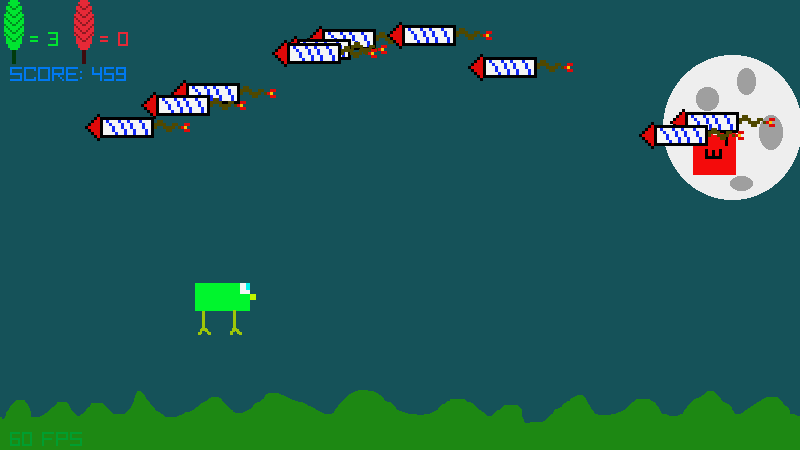
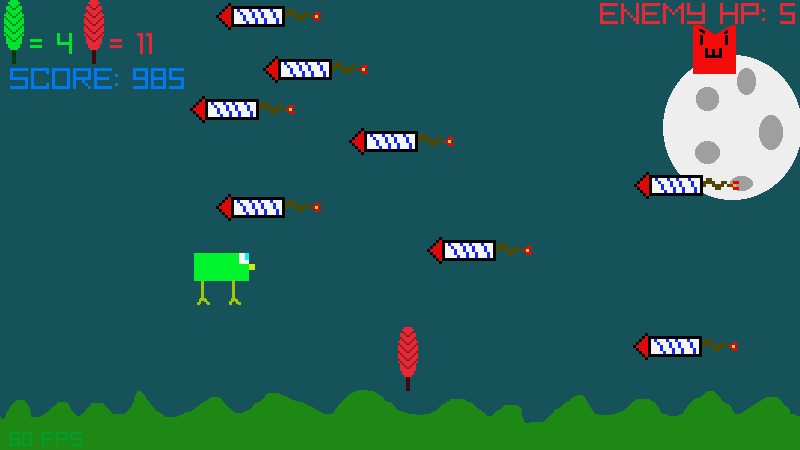
fixed text bugs

diff --git a/src/Gameplay.c b/src/Gameplay.c
@@ -68,7 +68,6 @@ void InitGameplayScreen(void)
 
   enemy.currentframe = 0;
   enemy.hp = 5;
-  //enemy.speed = 2.0f;
   enemy.speed = 200.0f;
   if (GI_callcount < 1) {
     enemy.frameRec = (Rectangle) {
@@ -127,18 +126,8 @@ void InitGameplayScreen(void)
   pauseTimer = 0;
   score = 0;
   scoreTimer = 0;
-  ewc = 0;
 
   GI_callcount++;
-}
-
-void SetEnemyLevel(void)
-{
-  switch (level) {
-    case LEVEL1: enemy.speed = 200.0f; break;
-    case LEVEL2: enemy.speed = 400.0f; break;
-    case LEVEL3: enemy.speed = 600.0f; break;
-  }
 }
 
 void DamageActor(struct Actor *actor)
@@ -248,11 +237,12 @@ void UpdateGameplayScreen(void)
          if (IsKeyPressed(KEY_D)) DebugMode = !DebugMode;
          if (IsKeyPressed(KEY_NINE)) ammo = 99;
          if (IsKeyPressed(KEY_ZERO)) ammo = 0;
+         if (IsKeyPressed(KEY_G)) finishfromGameplayScreen = 1;
          if (IsKeyPressed(KEY_R)) finishfromGameplayScreen = 2;
          if (IsKeyPressed(KEY_W)) finishfromGameplayScreen = 3;
 
          // call gameover when killed
-         if (player.hp <= 0) { StopMusicStream(Gameplaysong); finishfromGameplayScreen = 1; }
+         if (player.hp < 1) { StopMusicStream(Gameplaysong); finishfromGameplayScreen = 1; }
 
          // Red feather logic
          for (int i = 0; i < MAX_SHOOTS; i++) {
@@ -285,7 +275,7 @@ void UpdateGameplayScreen(void)
                    case 0: player.hp++;  break;
                    case 1: ammo++; break;
                  }
-                 PlaySoundMulti(fxfeather);
+                 if (!mute) PlaySoundMulti(fxfeather);
                  ResetFeather();
              }
              feather.hitbox.x -= 300.0f * GetFrameTime();
@@ -293,16 +283,11 @@ void UpdateGameplayScreen(void)
 
          // Enemy logic
          if (level < 3) {
-        /*   if (((enemy.hitbox.y + enemy.hitbox.height) >= (float)GetScreenHeight()
-           || (enemy.hitbox.y <= 0))) enemy.speed *= -1.0f; */
-
-        //   if ((int) globalTimer % 50 == 0)
-            enemy.hitbox.y = GetRandomValue(0, GetScreenHeight() - enemy_sprite.height);
-        //   enemy.hitbox.y += enemy.speed * GetFrameTime();
+           if ((int)globalTimer % 40 == 0) enemy.hitbox.y = GetRandomValue(0, GetScreenHeight() - enemy_sprite.height);
 
            if (CheckCollisionRecs(player.hitbox, enemy.hitbox)) DamageActor(&player);
 
-           if (enemy.hp < 1) { level++; enemy.hp = 5; SetEnemyLevel(); }
+           if (enemy.hp < 1) { level++; enemy.hp = 5; }
          }
 
          // Firework logic
@@ -352,9 +337,6 @@ void DrawGameplayScreen(void)
     for (int i = 0; i < MAX_SHOOTS; i++) {
       DrawRectangleLines(shoot[i].hitbox.x, shoot[i].hitbox.y, shoot[i].hitbox.width, shoot[i].hitbox.height, GREEN);
     }
-    /*for (int i = 0; i < 2; i++) {
-      DrawRectangleLines(EnemyBounds[i].x, EnemyBounds[i].y, EnemyBounds[i].width, EnemyBounds[i].height, WHITE);
-    }*/
     DrawText(TextFormat("enemy.hitbox.y: %f", enemy.hitbox.y), 10, 200, 20, GREEN);
     DrawText(TextFormat("enemy.speed: %f", enemy.speed), 10, 220, 20, GREEN);
     DrawText(TextFormat("globalTimer: %f", globalTimer), 10, 240, 20, GREEN);
@@ -362,7 +344,7 @@ void DrawGameplayScreen(void)
     DrawText(TextFormat("player.iframetimer: %f", player.iframetimer), 10, 280, 20, GREEN);
     DrawText(TextFormat("player.in: %d", player.in), 10, 300, 20, GREEN);
     DrawText(TextFormat("feather.active: %d", feather.active), 10, 320, 20, GREEN);
-    //DrawText(TextFormat("GetTime(): %f", GetTime()), 10, 320, 20, GREEN);
+    DrawText(TextFormat("GetTime(): %f", GetTime()), 10, 340, 20, GREEN);
   }
   if (feather.active) DrawTexture(feather_sprite, feather.sprite_pos.x, feather.sprite_pos.y, feather.color);
   DrawTextureRec(enemy_sprite, enemy.frameRec, enemy.sprite_pos, enemy.color);

diff --git a/src/Title.c b/src/Title.c
@@ -18,13 +18,13 @@ int titleSelected = 0, finishfromTitleScreen = 0;
 void DrawScore(void)
 {
   if (bestscore >= 10000)
-     DrawTextEx(ZadoBold, TextFormat("BEST: %i", bestscore), (Vector2){ 580, 0 }, 30, 2, (Color){ 222, 181, 0, 255 });
+     DrawText(TextFormat("BEST: %i", bestscore),  580, 0, 30, (Color){ 222, 181, 0, 255 });
   else if (bestscore >= 5000)
-     DrawTextEx(ZadoBold, TextFormat("BEST: %i", bestscore), (Vector2){ 580, 0 }, 30, 2, (Color){ 149, 148, 147, 255 });
+     DrawText(TextFormat("BEST: %i", bestscore),  580, 0, 30, (Color){ 149, 148, 147, 255 });
   else if (bestscore >= 1000)
-     DrawTextEx(ZadoBold, TextFormat("BEST: %i", bestscore), (Vector2){ 580, 0 }, 30, 2, (Color){ 138, 72, 4, 255 });
+     DrawText(TextFormat("BEST: %i", bestscore), 580, 0, 30,(Color){ 138, 72, 4, 255 });
   else
-     DrawTextEx(ZadoBold, TextFormat("BEST: %i", bestscore), (Vector2){ 580, 0 }, 30, 2, BLUE);
+     DrawText(TextFormat("BEST: %i", bestscore), 580, 0, 30, BLUE);
 }
 
 
@@ -49,15 +49,15 @@ void DrawTitleScreen(void)
 {
   DrawTexture(background, 0, 0, GRAY);
   DrawTextEx(ZadoBold, "Avoid", (Vector2){ 300, 0 }, 80, 5, BLUE);
-  //  DrawText("Controls", 10, 10, 30, BLUE);
+    DrawText("Controls", 5, 10, 30, BLUE);
     DrawScore();
-  /*  DrawText("Press the arrow keys or 'DPAD' to move and 'X' to dash", 10, 40, 10, WHITE);
-    DrawText("Press 'ENTER' or 'START' to pause", 10, 60, 10, WHITE);
-    DrawText("Press 'M' to mute", 10, 80, 10, WHITE);
-    DrawText("Press 'Left-ALT' + 'F' for full screen", 10, 100, 10, WHITE);
-    DrawText("Press 'R' to restart", 10, 120, 10, WHITE);
-    DrawText("Press 'ENTER' or 'START' to select an option", 10, 140, 10, WHITE);
-    DrawText("Press 'X' or 'A' on a gamepad to shoot", 10, 160, 10, WHITE); */
+    DrawText("Press the arrow keys or 'DPAD' to move and 'X' to dash", 5, 40, 10, WHITE);
+    DrawText("Press 'ENTER' or 'START' to pause", 5, 60, 10, WHITE);
+    DrawText("Press 'M' to mute", 5, 80, 10, WHITE);
+    DrawText("Press 'Left-ALT' + 'F' for full screen", 5, 100, 10, WHITE);
+    DrawText("Press 'R' to restart", 5, 120, 10, WHITE);
+    DrawText("Press 'ENTER' or 'START' to select an option", 5, 140, 10, WHITE);
+    DrawText("Press 'X' or 'A' on a gamepad to shoot", 5, 160, 10, WHITE);
 //  DrawText("Ver: 0.1", 680, 420, 30, WHITE);
     if (titleSelected == 0) DrawTextEx(ZadoBold,"PLAY", (Vector2){ 360, 220 }, 30, 2, WHITE);
     else DrawTextEx(ZadoBold,"PLAY", (Vector2){ 360, 220 }, 30, 2, BLUE);

diff --git a/src/Gameover.c b/src/Gameover.c
@@ -43,12 +43,12 @@ void UpdateGameoverScreen(void)
 void DrawGameoverScreen(void)
 {
   DrawRectangle(0, 0, GetScreenWidth(), GetScreenHeight(), BLACK);
-  DrawTextEx(ZadoBold, "GAME OVER", (Vector2){ 190, 0 }, 80, 3, RED);
-  if (gameoverSelected == 0) DrawTextEx(ZadoBold, "RETRY", (Vector2){ 350, 200 }, 30, 2, WHITE);
-  else DrawTextEx(ZadoBold, "RETRY", (Vector2){ 350, 200 }, 30, 2, RED);
+  DrawText("GAME OVER", 170, 10, 80, RED);
+  if (gameoverSelected == 0) DrawTextEx(ZadoBold, "RETRY", (Vector2){ 340, 200 }, 40, 2, WHITE);
+  else DrawTextEx(ZadoBold, "RETRY", (Vector2){ 340, 200 }, 40, 2, RED);
 
-  if (gameoverSelected == -1) DrawTextEx(ZadoBold, "TITLE", (Vector2){ 355, 240 }, 30, 2, WHITE);
-  else DrawTextEx(ZadoBold, "TITLE", (Vector2){ 355, 240 }, 30, 2, RED);
+  if (gameoverSelected == -1) DrawTextEx(ZadoBold, "TITLE", (Vector2){ 345, 250 }, 40, 2, WHITE);
+  else DrawTextEx(ZadoBold, "TITLE", (Vector2){ 345, 250 }, 40, 2, RED);
 }
 
 int FinishGameoverScreen(void)

diff --git a/src/Ending.c b/src/Ending.c
@@ -33,7 +33,7 @@ void UpdateEndingScreen(void)
 void DrawEndingScreen(void)
 {
   DrawTexture(background, 0, 0, GOLD);
-  DrawTextEx(ZadoBold, "THANK YOU SO MUCH FOR PLAYING!!!", (Vector2){ 10, 10 }, 45, 2, GOLD);
+  DrawText("THANK YOU SO MUCH FOR PLAYING!!!", 10, 10, 40, GOLD);
   DrawTextEx(ZadoBold, "Canneddonuts 2022", (Vector2){ 380, 400 }, 40, 2, WHITE);
   DrawTextEx(ZadoBold, "Press 'ENTER'", (Vector2){ 5, 400 }, 40, 2, WHITE);
 }

diff --git a/src/Gameplay.h b/src/Gameplay.h
@@ -52,7 +52,6 @@ struct Item feather = { 0 };
 Sound fxfeather = { 0 };
 bool pause;
 bool DebugMode;
-bool ewc;
 int ammo = 0;
 int GI_callcount = 0;
 

diff --git a/README.md b/README.md
@@ -6,7 +6,7 @@ A dumb raylib test which you can play [here](https://canneddonuts.itch.io/avoid-
 - a tutorial
 
 ## Note
-This games code more specifically 'Main.c' is a retyped version of this [repo](https://github.com/raysan5/raylib-game-template) which is code under the zlib license.
+This game's code more specifically 'Main.c' is a retyped version of this [repo](https://github.com/raysan5/raylib-game-template) which is code under the zlib license.
 
 ## Preview
 ![Alt Text](./doc-assets/preview.png)
